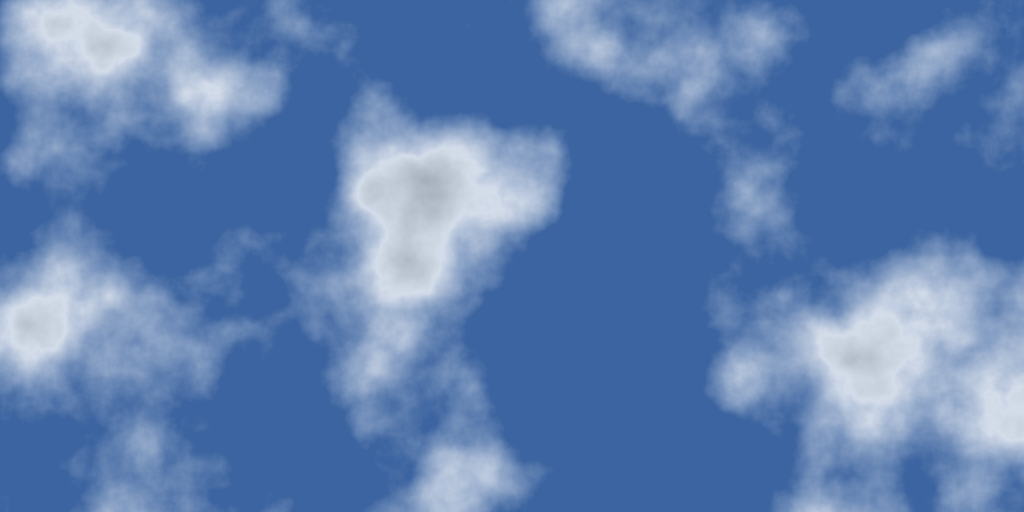
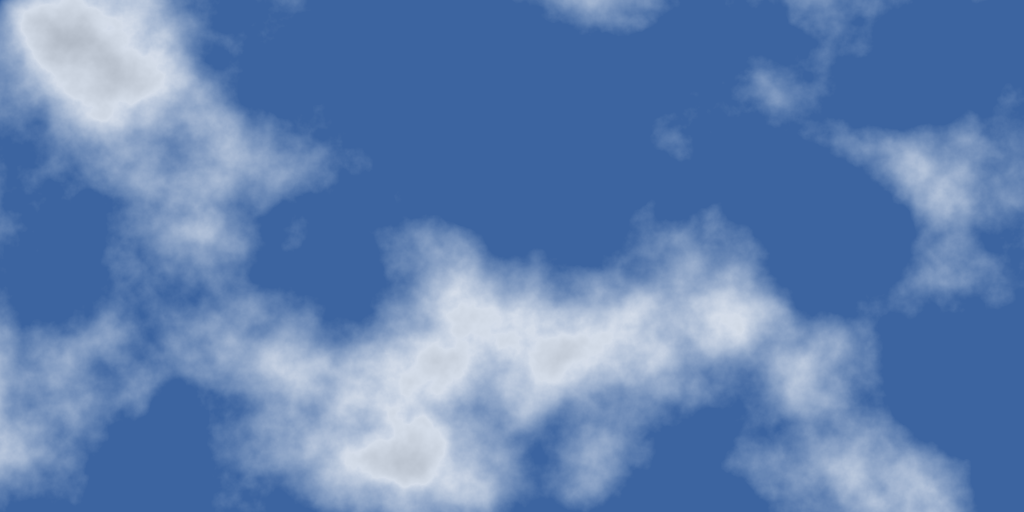
Update

diff --git a/docs/index.html b/docs/index.html
@@ -3,6 +3,6 @@
 <body>
 Today's cloud<br/>
 <img src="latest.png"/><br/>
-Latest update: Sat Mar 20 22:09:52 UTC 2021
+Latest update: Sun Mar 21 22:09:51 UTC 2021
 </body>
 </html>
